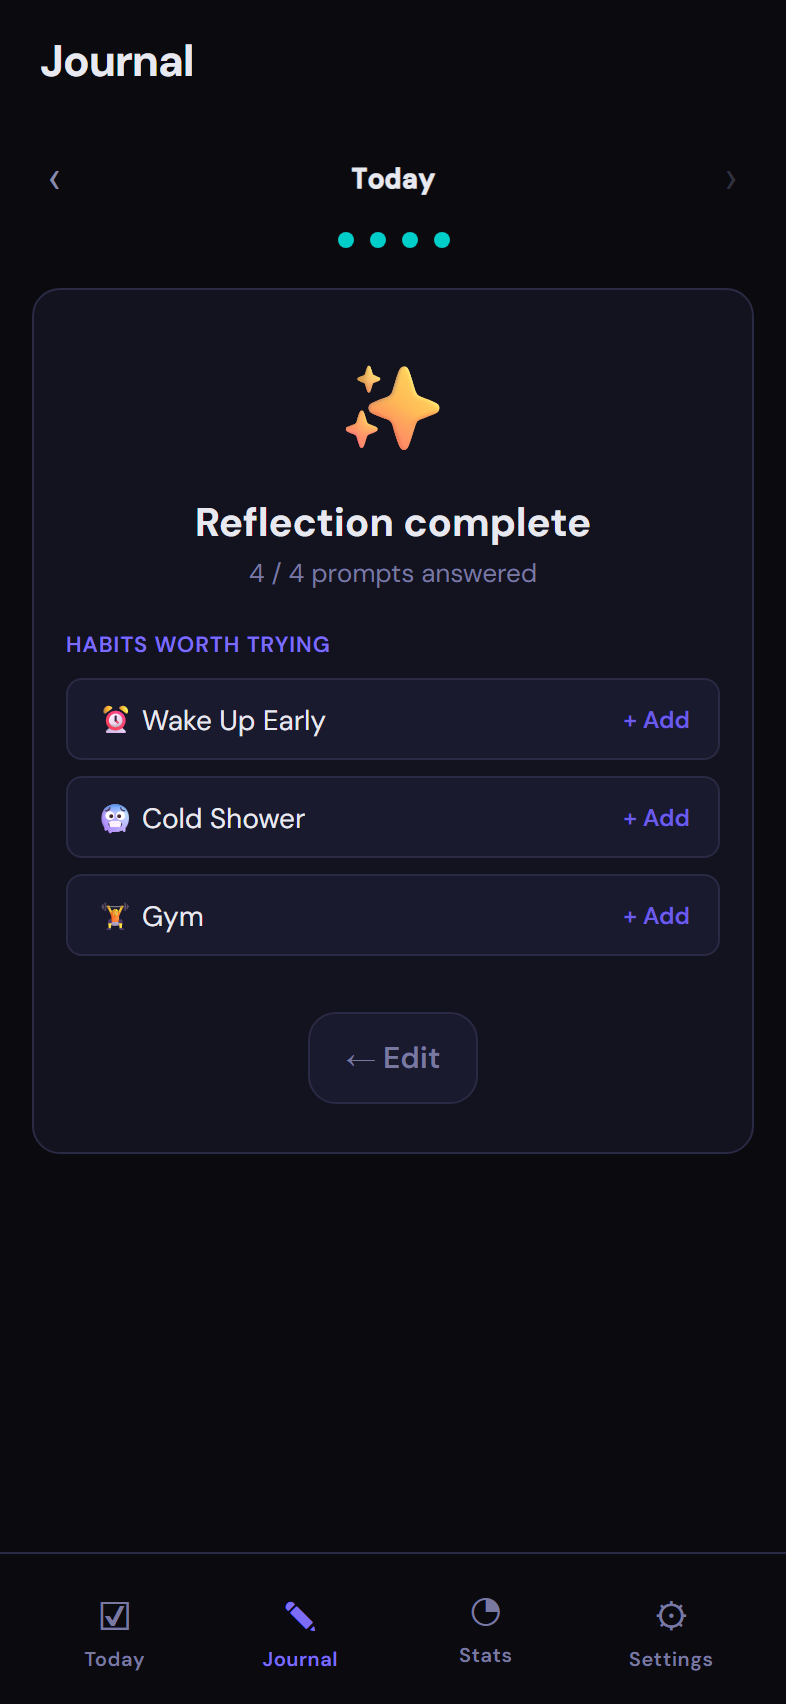
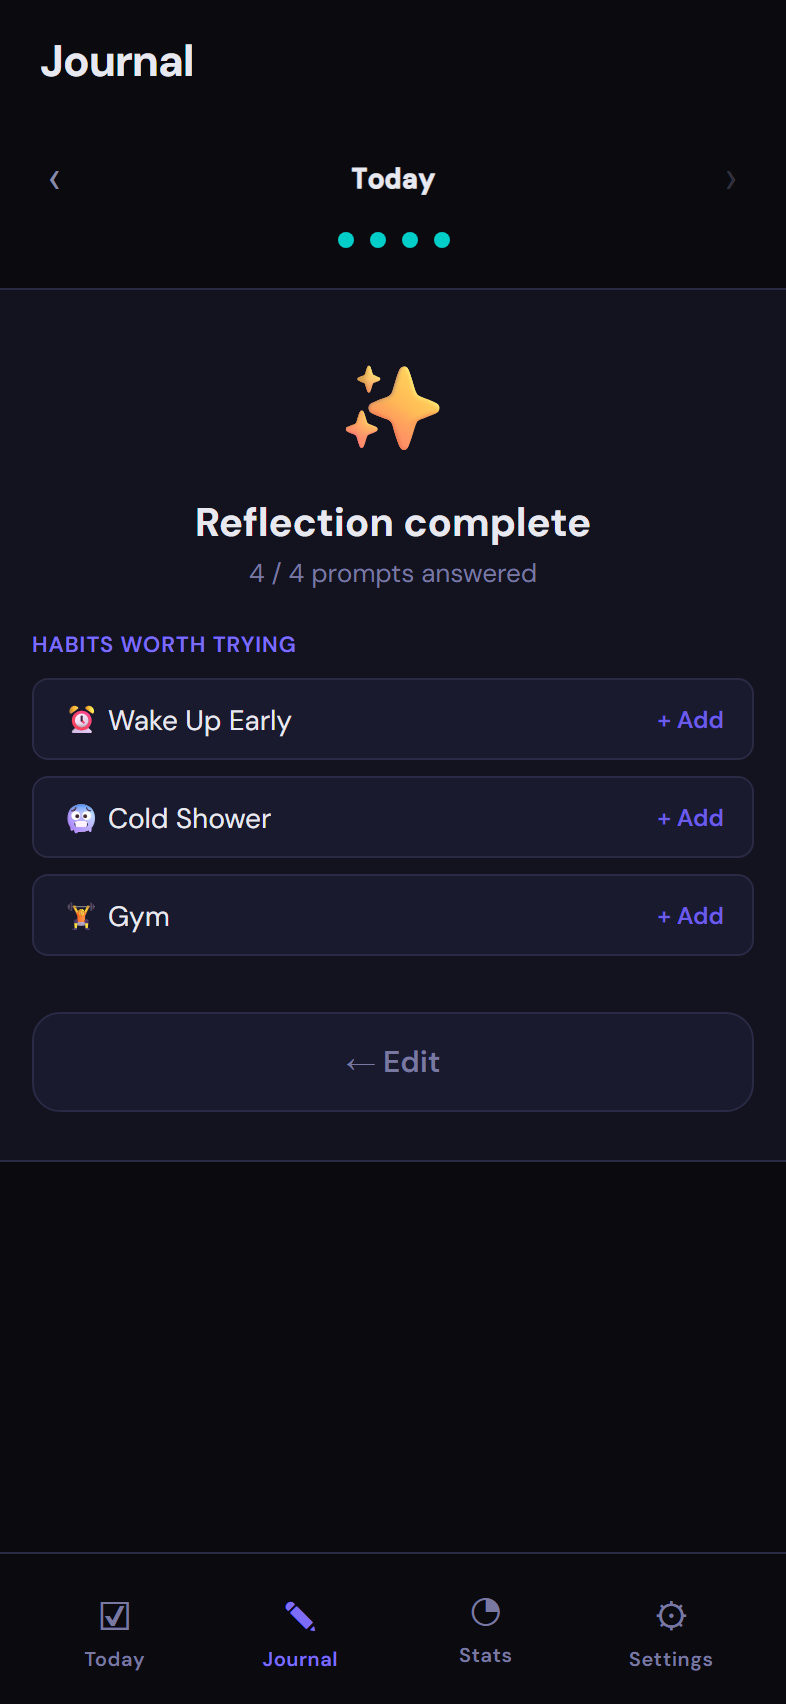
fix: diary step/summary cards full-width, edit btn full-width
- .diary-step-card and .diary-summary: edge-to-edge layout using
  negative margins (−16px mobile, −32px desktop), no side borders,
  border-radius 0 — consistent with hint card / kit full-bleed style
- .diary-edit-btn: width:100% so it matches Next/Done primary CTA width
- Updated all affected docs/ screenshots (13 total)

diff --git a/styles.css b/styles.css
@@ -649,10 +649,13 @@
       /* Step card */
       .diary-step-card {
         background: var(--surface);
-        border: 1px solid var(--border);
-        border-radius: var(--radius);
+        border-left: none;
+        border-right: none;
+        border-top: 1px solid var(--border);
+        border-bottom: 1px solid var(--border);
+        border-radius: 0;
         padding: 24px 20px 16px;
-        margin-bottom: 12px;
+        margin: 0 -16px 12px;
         display: flex;
         flex-direction: column;
         align-items: center;
@@ -719,8 +722,12 @@
         text-align: center;
         padding: 24px 16px;
         background: var(--surface);
-        border: 1px solid var(--border);
-        border-radius: var(--radius);
+        border-left: none;
+        border-right: none;
+        border-top: 1px solid var(--border);
+        border-bottom: 1px solid var(--border);
+        border-radius: 0;
+        margin: 0 -16px 12px;
       }
       .diary-summary-icon { font-size: 48px; margin-bottom: 12px; }
       .diary-summary-title {
@@ -779,9 +786,9 @@
         font-weight: 600;
         cursor: pointer;
         font-family: var(--font);
-        padding: 12px 18px;
+        padding: 14px 18px;
         transition: opacity 0.15s;
-        align-self: center;
+        width: 100%;
       }
       .diary-edit-btn:active { opacity: 0.7; }
 
@@ -1152,7 +1159,7 @@
         max-width: 480px;
         padding: 20px 20px calc(32px + env(safe-area-inset-bottom, 0px));
         animation: slideUp 0.3s cubic-bezier(0.16, 1, 0.3, 1);
-        max-height: 88vh;
+        max-height: 100dvh;
         overflow-y: auto;
         -webkit-overflow-scrolling: touch;
       }
@@ -1859,6 +1866,15 @@
         /* ── Progress header ── */
         .progress-header {
           margin: 8px 32px 16px;
+        }
+
+        /* ── Diary full-bleed cards ── */
+        .diary-step-card,
+        .diary-summary {
+          margin-left: -32px;
+          margin-right: -32px;
+          padding-left: 32px;
+          padding-right: 32px;
         }
 
         /* ── Stat cards: 2-column grid ── */
